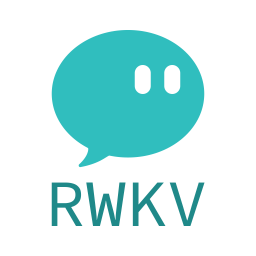
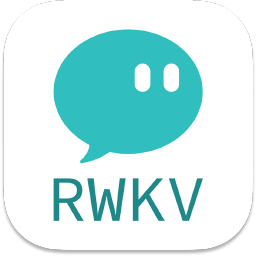
chore: update version to 1.9.0 and refactor rwkv_downloader dependency to use GitHub URL
Updated the app version in pubspec.yaml and changed the rwkv_downloader dependency in pubspec.lock to point to the GitHub repository for improved accessibility. Additionally, multiple branding images were updated across various resolutions.

diff --git a/tools/test/tools_test.dart b/tools/test/tools_test.dart
@@ -1,8 +1,3 @@
-import 'package:tools/tools.dart';
 import 'package:test/test.dart';
 
-void main() {
-  test('calculate', () {
-    expect(calculate(), 42);
-  });
-}
+void main() {}
